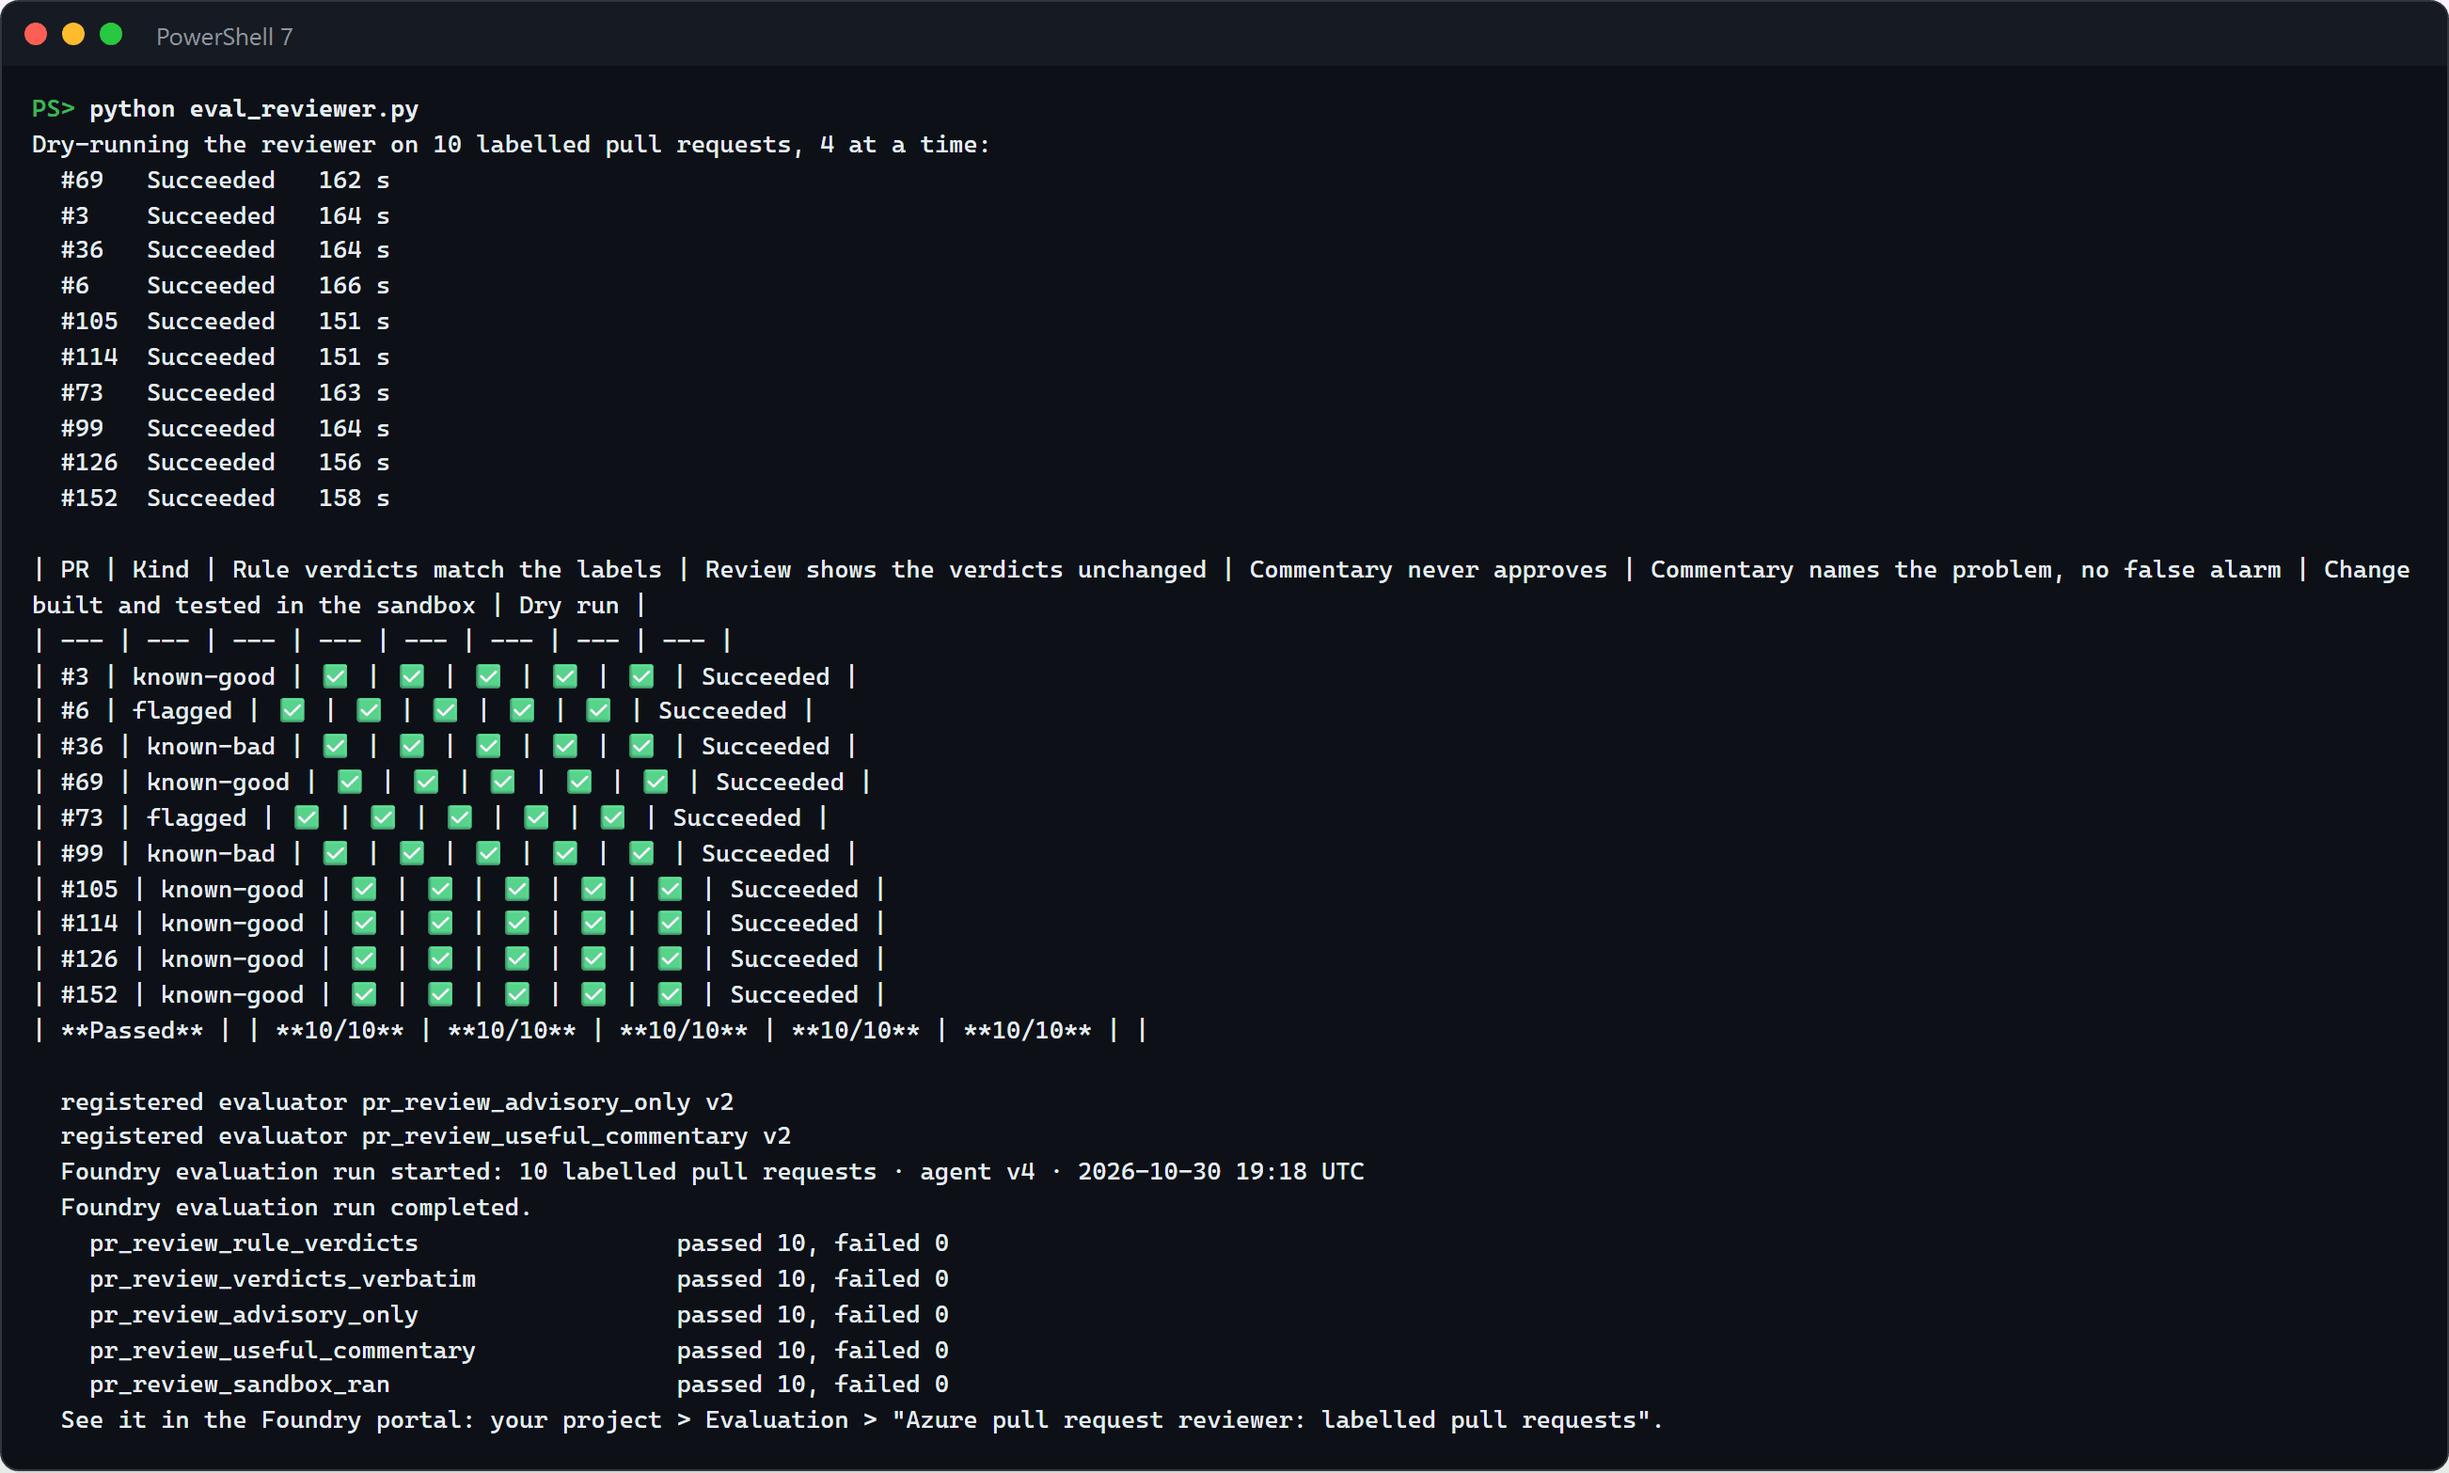
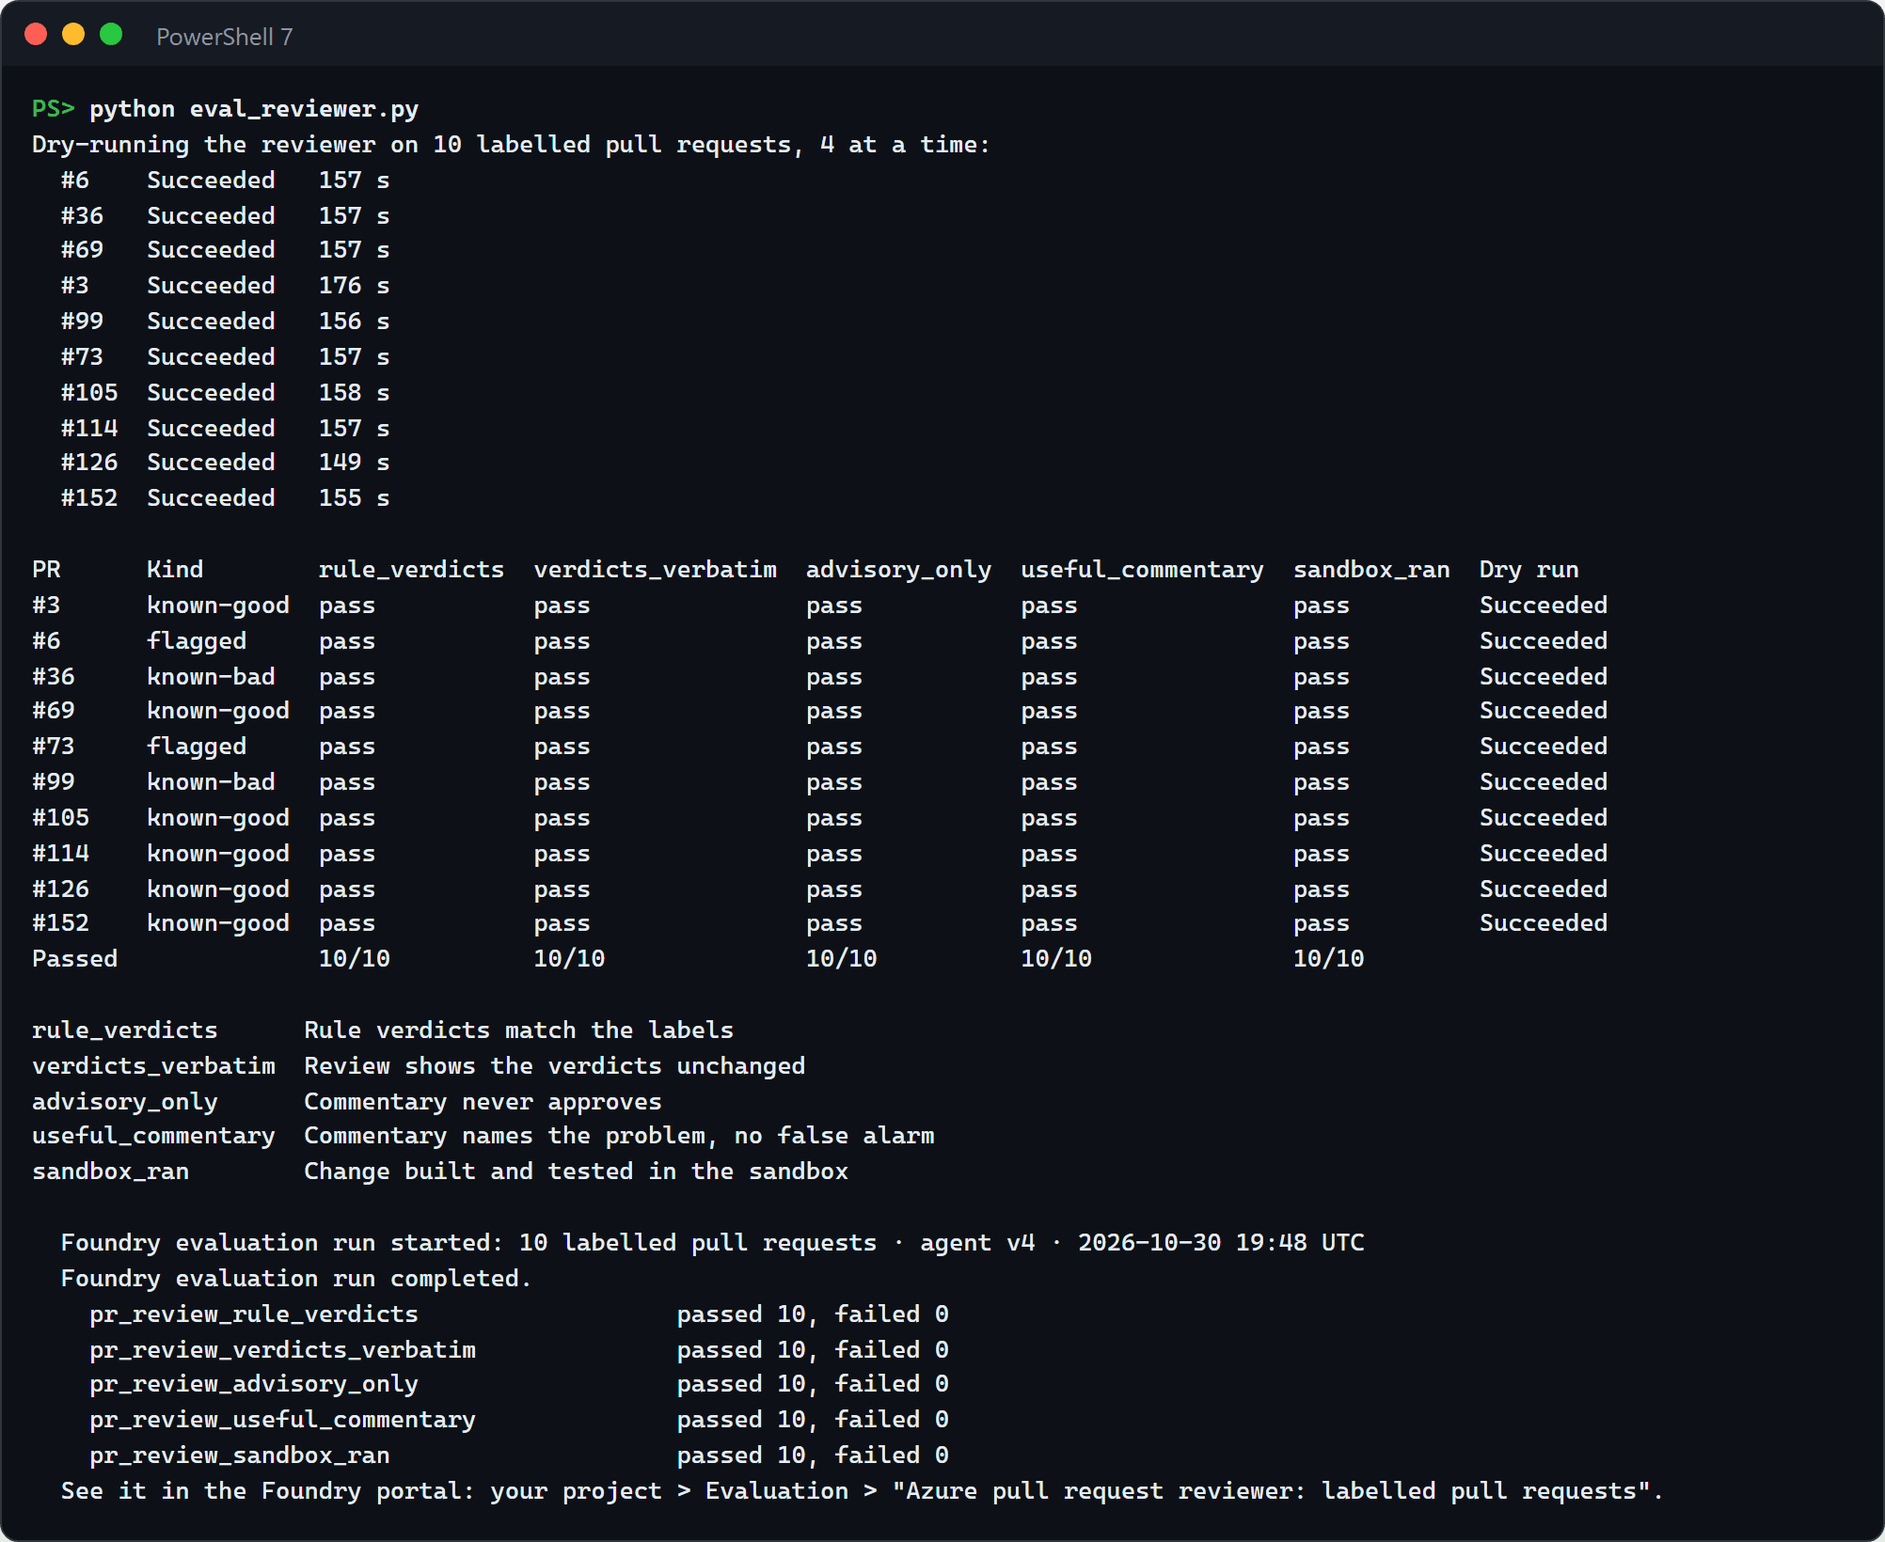
03-develop-microsoft: the evaluation prints an aligned table in the terminal
eval_reviewer.py printed its scores as a Markdown table, whose long header wrapped in a terminal, so the marks
didn't line up with the check names. The terminal now gets a plain-text table: one column per check, named as
the evaluator is in Foundry without its pr_review_ prefix, pass or FAIL in each cell, and a legend with each
check's title. out/eval/report.md keeps the Markdown table. Screenshots 08 and 09 are recaptured from a new
full run (exit 0, all five checks 10 of 10, locally and in Foundry).

Changed region(s): [[0.0, 0.0613, 1.0, 1.0], [0.0, 0.0, 0.1547, 0.0307], [0.495, 0.092, 0.5259, 0.1226]]

diff --git a/solutions/03-develop-microsoft/test_eval_reviewer.py b/solutions/03-develop-microsoft/test_eval_reviewer.py
@@ -8,6 +8,7 @@ from __future__ import annotations
 import contextlib
 import io
 import json
+import re
 import sys
 import tempfile
 import unittest
@@ -41,7 +42,8 @@ def good_item(case: dict) -> dict:
             "_run": "test", "_status": "Succeeded"}
 
 
-def run_main(items: list[dict], *args: str) -> tuple[int, str]:
+def run_main(items: list[dict], *args: str) -> tuple[int, str, str]:
+    """Runs eval_reviewer.main on these stored results. Returns the exit code, what it printed, and report.md."""
     with tempfile.TemporaryDirectory() as folder:
         out = Path(folder)
         (out / "results.jsonl").write_text("".join(json.dumps(i) + "\n" for i in items), encoding="utf-8")
@@ -52,7 +54,8 @@ def run_main(items: list[dict], *args: str) -> tuple[int, str]:
                 code = eval_reviewer.main(["--reuse", "--local", *args])
         finally:
             eval_reviewer.OUT = saved
-    return code, stdout.getvalue() + stderr.getvalue()
+        report = (out / "report.md").read_text(encoding="utf-8") if (out / "report.md").exists() else ""
+    return code, stdout.getvalue() + stderr.getvalue(), report
 
 
 class GraderTests(unittest.TestCase):
@@ -75,19 +78,36 @@ class GraderTests(unittest.TestCase):
 
 class ReportingTests(unittest.TestCase):
     def test_every_case_passing_exits_0(self):
-        code, out = run_main([good_item(c) for c in CASES])
+        code, out, _ = run_main([good_item(c) for c in CASES])
         self.assertEqual(code, 0, out)
 
     def test_a_case_without_a_result_fails(self):
-        code, out = run_main([good_item(c) for c in CASES[1:]])
+        code, out, report = run_main([good_item(c) for c in CASES[1:]])
         self.assertEqual(code, 1, out)
-        self.assertIn(f"| #{CASES[0]['pr']} |", out)
+        self.assertRegex(out, rf"(?m)^#{CASES[0]['pr']} +{CASES[0]['kind']} +FAIL +FAIL")
         self.assertIn("no stored result", out)
+        self.assertIn(f"| #{CASES[0]['pr']} |", report)
+
+    def test_the_terminal_table_lines_up_and_report_md_stays_markdown(self):
+        code, out, report = run_main([good_item(c) for c in CASES])
+        lines = out.splitlines()
+        header = next(line for line in lines if line.startswith("PR "))
+        columns = [m.start() for m in re.finditer(r"(?<=  )\S", header)]
+        rows = [line for line in lines if re.match(r"#\d+ ", line)] + [next(line for line in lines if line.startswith("Passed"))]
+        self.assertEqual(len(rows), len(CASES) + 1)
+        for row in rows:
+            for column in columns[1:-1]:  # every check's column, between Kind and Dry run
+                self.assertEqual(row[column - 1], " ", row)
+                self.assertNotEqual(row[column], " ", row)
+        self.assertNotIn("|", out)
+        for name, (_, title) in review_graders.GRADERS.items():
+            self.assertRegex(out, rf"(?m)^{name.removeprefix('pr_review_')} +{re.escape(title)}$")
+        self.assertIn("| PR | Kind |", report)
 
     def test_a_check_that_raises_is_could_not_grade_and_exits_2(self):
         broken = [good_item(c) for c in CASES]
         broken[0]["rules"] = "{not json"
-        code, out = run_main(broken)
+        code, out, _ = run_main(broken)
         self.assertEqual(code, 2, out)
         self.assertIn("COULD NOT GRADE", out)
 

diff --git a/solutions/03-develop-microsoft/eval_reviewer.py b/solutions/03-develop-microsoft/eval_reviewer.py
@@ -168,6 +168,7 @@ def score(items: list[dict]) -> list[dict]:
 
 
 def report(items: list[dict]) -> str:
+    """The scores as a Markdown table, for out/eval/report.md."""
     names = list(GRADERS)
     lines = ["| PR | Kind | " + " | ".join(GRADERS[n][1] for n in names) + " | Dry run |",
              "| --- | --- | " + " | ".join("---" for _ in names) + " | --- |"]
@@ -178,6 +179,25 @@ def report(items: list[dict]) -> str:
     passed = [sum(1 for i in items if (i["_scores"][n] or 0) >= 1) for n in names]
     lines.append("| **Passed** | | " + " | ".join(f"**{p}/{len(items)}**" for p in passed) + " | |")
     return "\n".join(lines)
+
+
+def terminal_report(items: list[dict]) -> str:
+    """The same scores as a plain-text table that lines up in a terminal. The columns are the checks' names in Foundry,
+    without their pr_review_ prefix, and a legend below gives each check's title."""
+    names = list(GRADERS)
+    short = [n.removeprefix("pr_review_") for n in names]
+
+    def cell(score: float | None) -> str:
+        return "COULD NOT GRADE" if score is None else "pass" if score >= 1 else "FAIL" if score <= 0 else f"FAIL {score:.2f}"
+
+    rows = [["PR", "Kind", *short, "Dry run"]]
+    rows += [[f"#{i['pr']}", str(i["kind"]), *(cell(i["_scores"][n]) for n in names), str(i["_status"])] for i in items]
+    passed = [sum(1 for i in items if (i["_scores"][n] or 0) >= 1) for n in names]
+    rows.append(["Passed", "", *(f"{p}/{len(items)}" for p in passed), ""])
+    widths = [max(len(row[c]) for row in rows) for c in range(len(rows[0]))]
+    lines = ["  ".join(value.ljust(width) for value, width in zip(row, widths)).rstrip() for row in rows]
+    legend = [f"{s.ljust(max(map(len, short)))}  {GRADERS[n][1]}" for s, n in zip(short, names)]
+    return "\n".join(lines + [""] + legend)
 
 
 def grader_source(fn) -> str:
@@ -280,9 +300,9 @@ def main(argv: list[str] | None = None) -> int:
     if not cases or len(items) != len(cases):
         print(f"error: {len(items)} results for {len(cases)} labelled pull requests", file=sys.stderr)
         return 2
-    table = report(score(items))
-    (OUT / "report.md").write_text(f"# Azure pull request reviewer: labelled pull requests\n\n{table}\n", encoding="utf-8")
-    print("\n" + table + "\n")
+    items = score(items)
+    (OUT / "report.md").write_text(f"# Azure pull request reviewer: labelled pull requests\n\n{report(items)}\n", encoding="utf-8")
+    print("\n" + terminal_report(items) + "\n")
     ungraded = [f"#{i['pr']} ({', '.join(i['_errors'])})" for i in items if i.get("_errors")]
     if ungraded:
         print(f"error: COULD NOT GRADE {', '.join(ungraded)}", file=sys.stderr)

diff --git a/solutions/03-develop-microsoft/README.md b/solutions/03-develop-microsoft/README.md
@@ -250,7 +250,7 @@ cd solutions/03-develop-microsoft
 python eval_reviewer.py
 ```
 
-![The evaluation in PowerShell: ten dry runs through the Logic App, each Succeeded in 151 to 166 seconds; a table of the ten labelled pull requests (known-good, flagged, and known-bad) with all five checks passed for each, 10 of 10 per check; then the Foundry evaluation run for agent v4, where each of the five evaluators reports passed 10, failed 0](images/08-evaluation-terminal.png)
+![The evaluation in PowerShell: ten dry runs through the Logic App, each Succeeded in 149 to 176 seconds; an aligned table of the ten labelled pull requests (known-good, flagged, and known-bad) with pass in all five checks and 10/10 per check, whose columns carry the evaluators' names, with a legend giving each check's title; then the Foundry evaluation run for agent v4, where each of the five evaluators reports passed 10, failed 0](images/08-evaluation-terminal.png)
 
 ![The same run in the Foundry portal's Evaluation view: 10 labelled pull requests, agent v4, with each of the five evaluators (rule verdicts, verdicts verbatim, advisory only, useful commentary, sandbox ran) at 100%, 10 of 10, and every row passing 5 of 5](images/09-foundry-evaluation.png)
 
